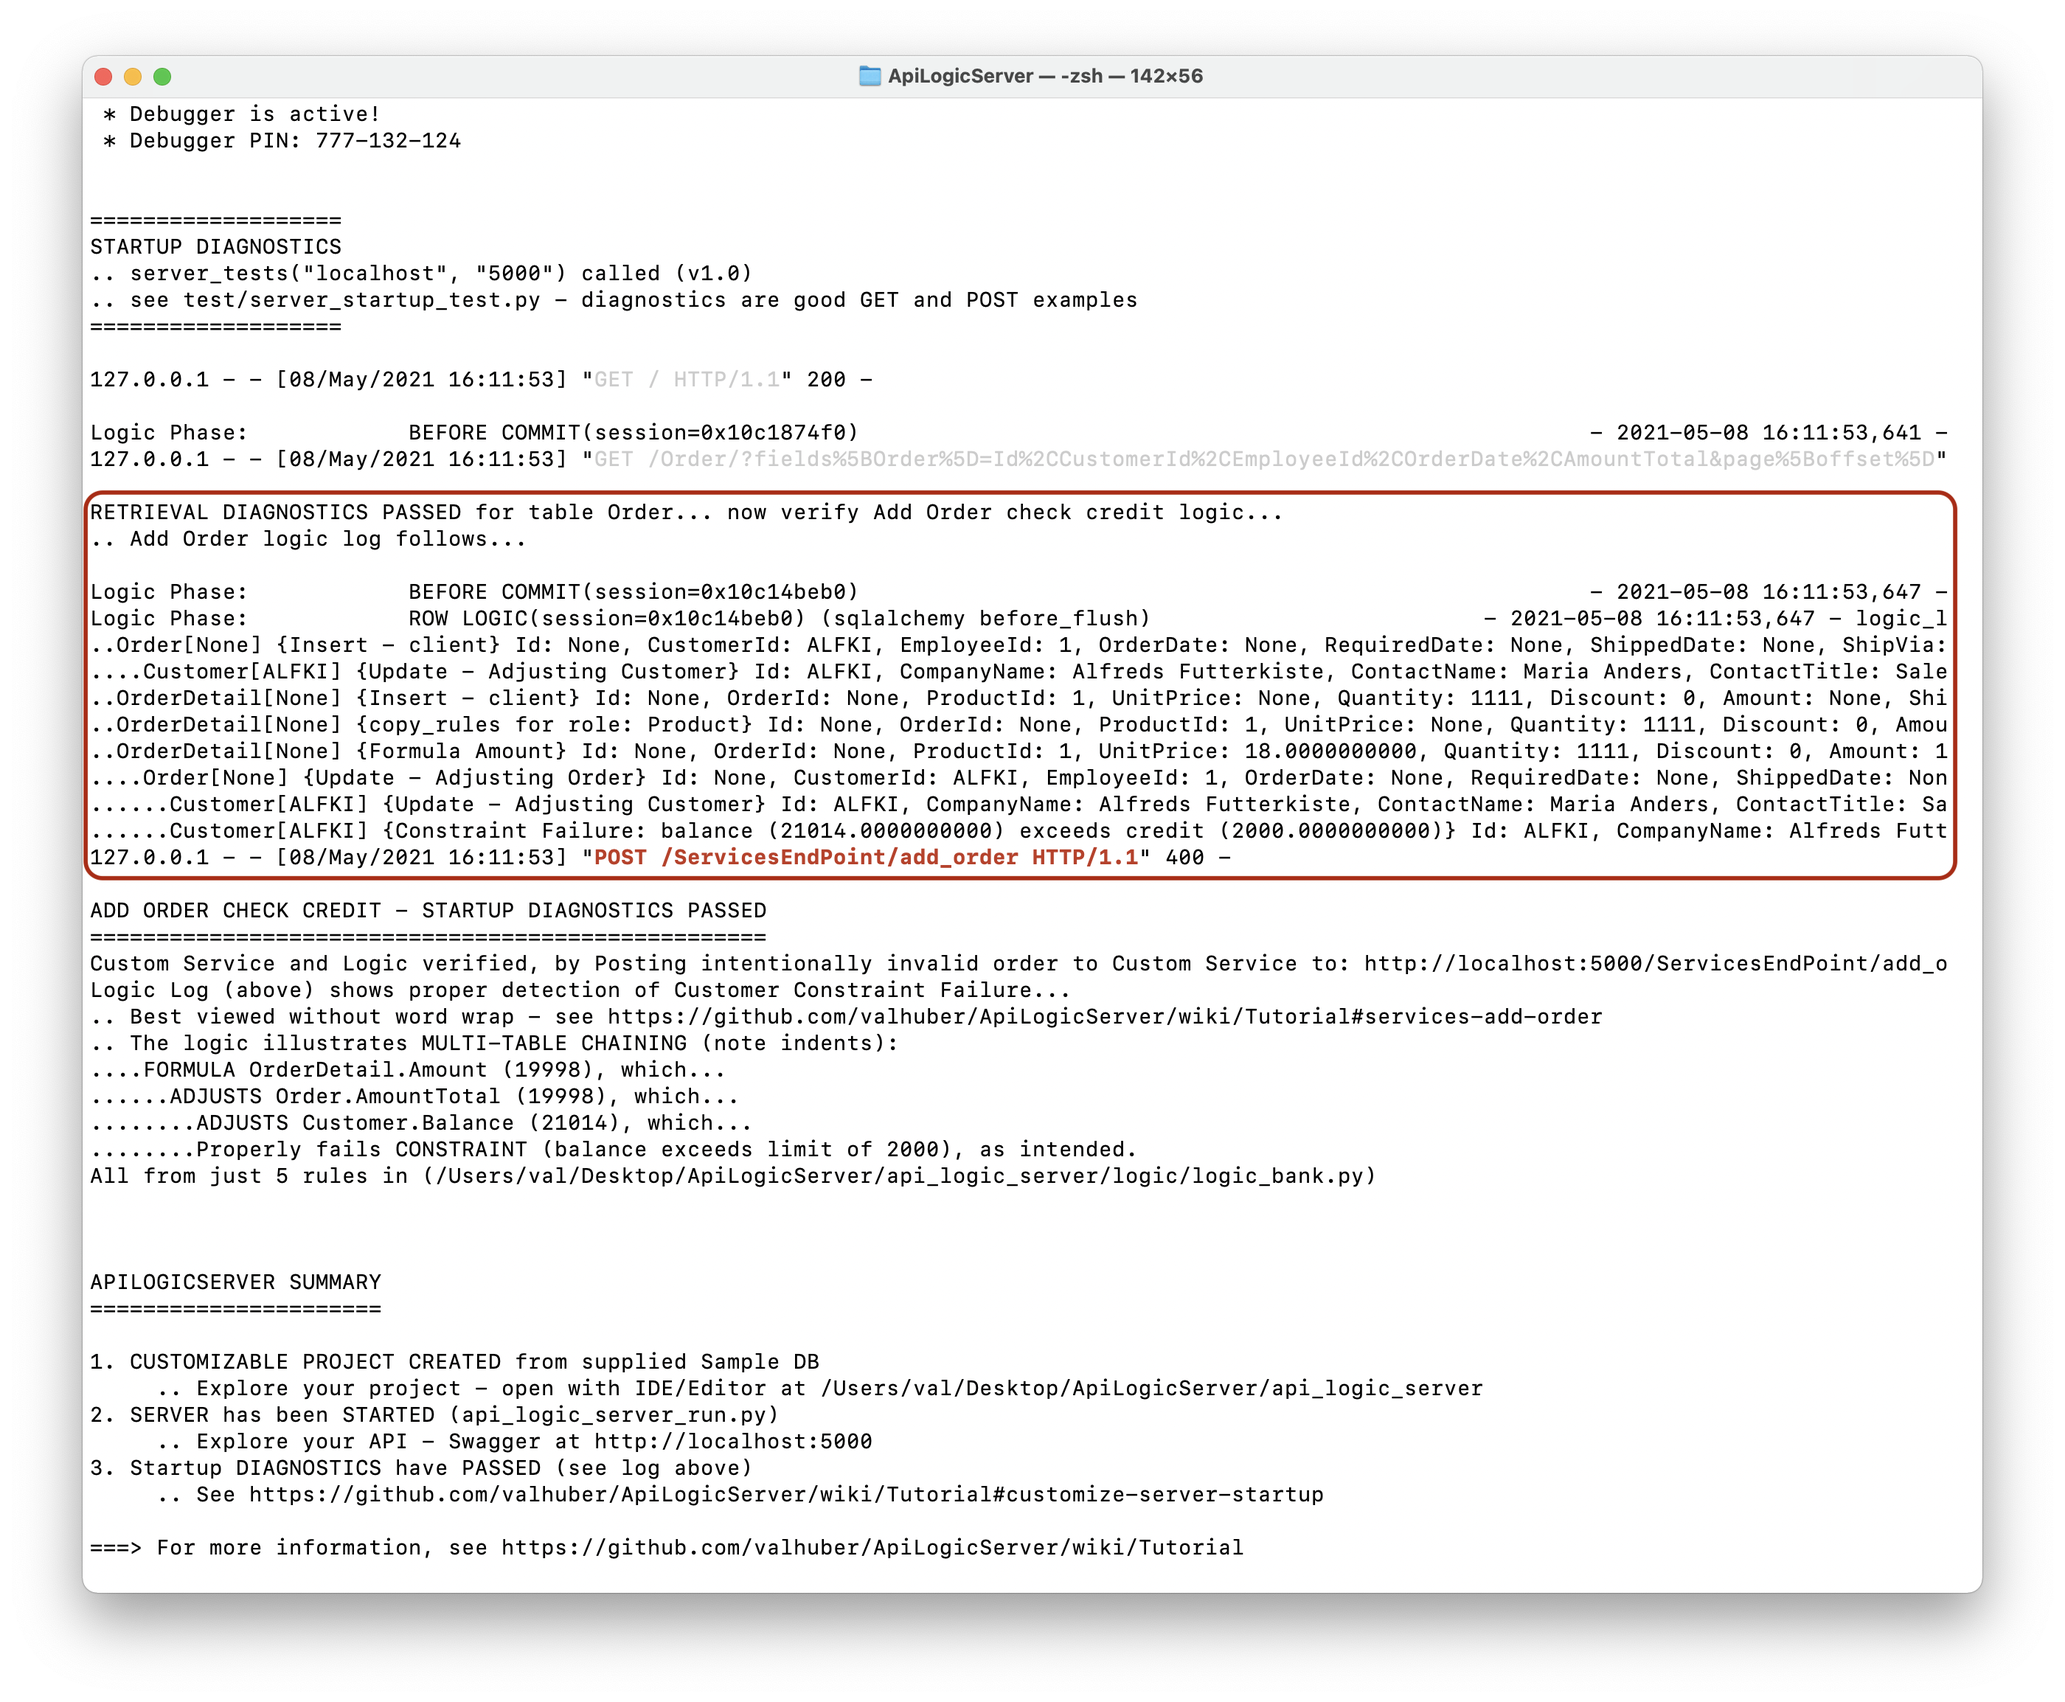
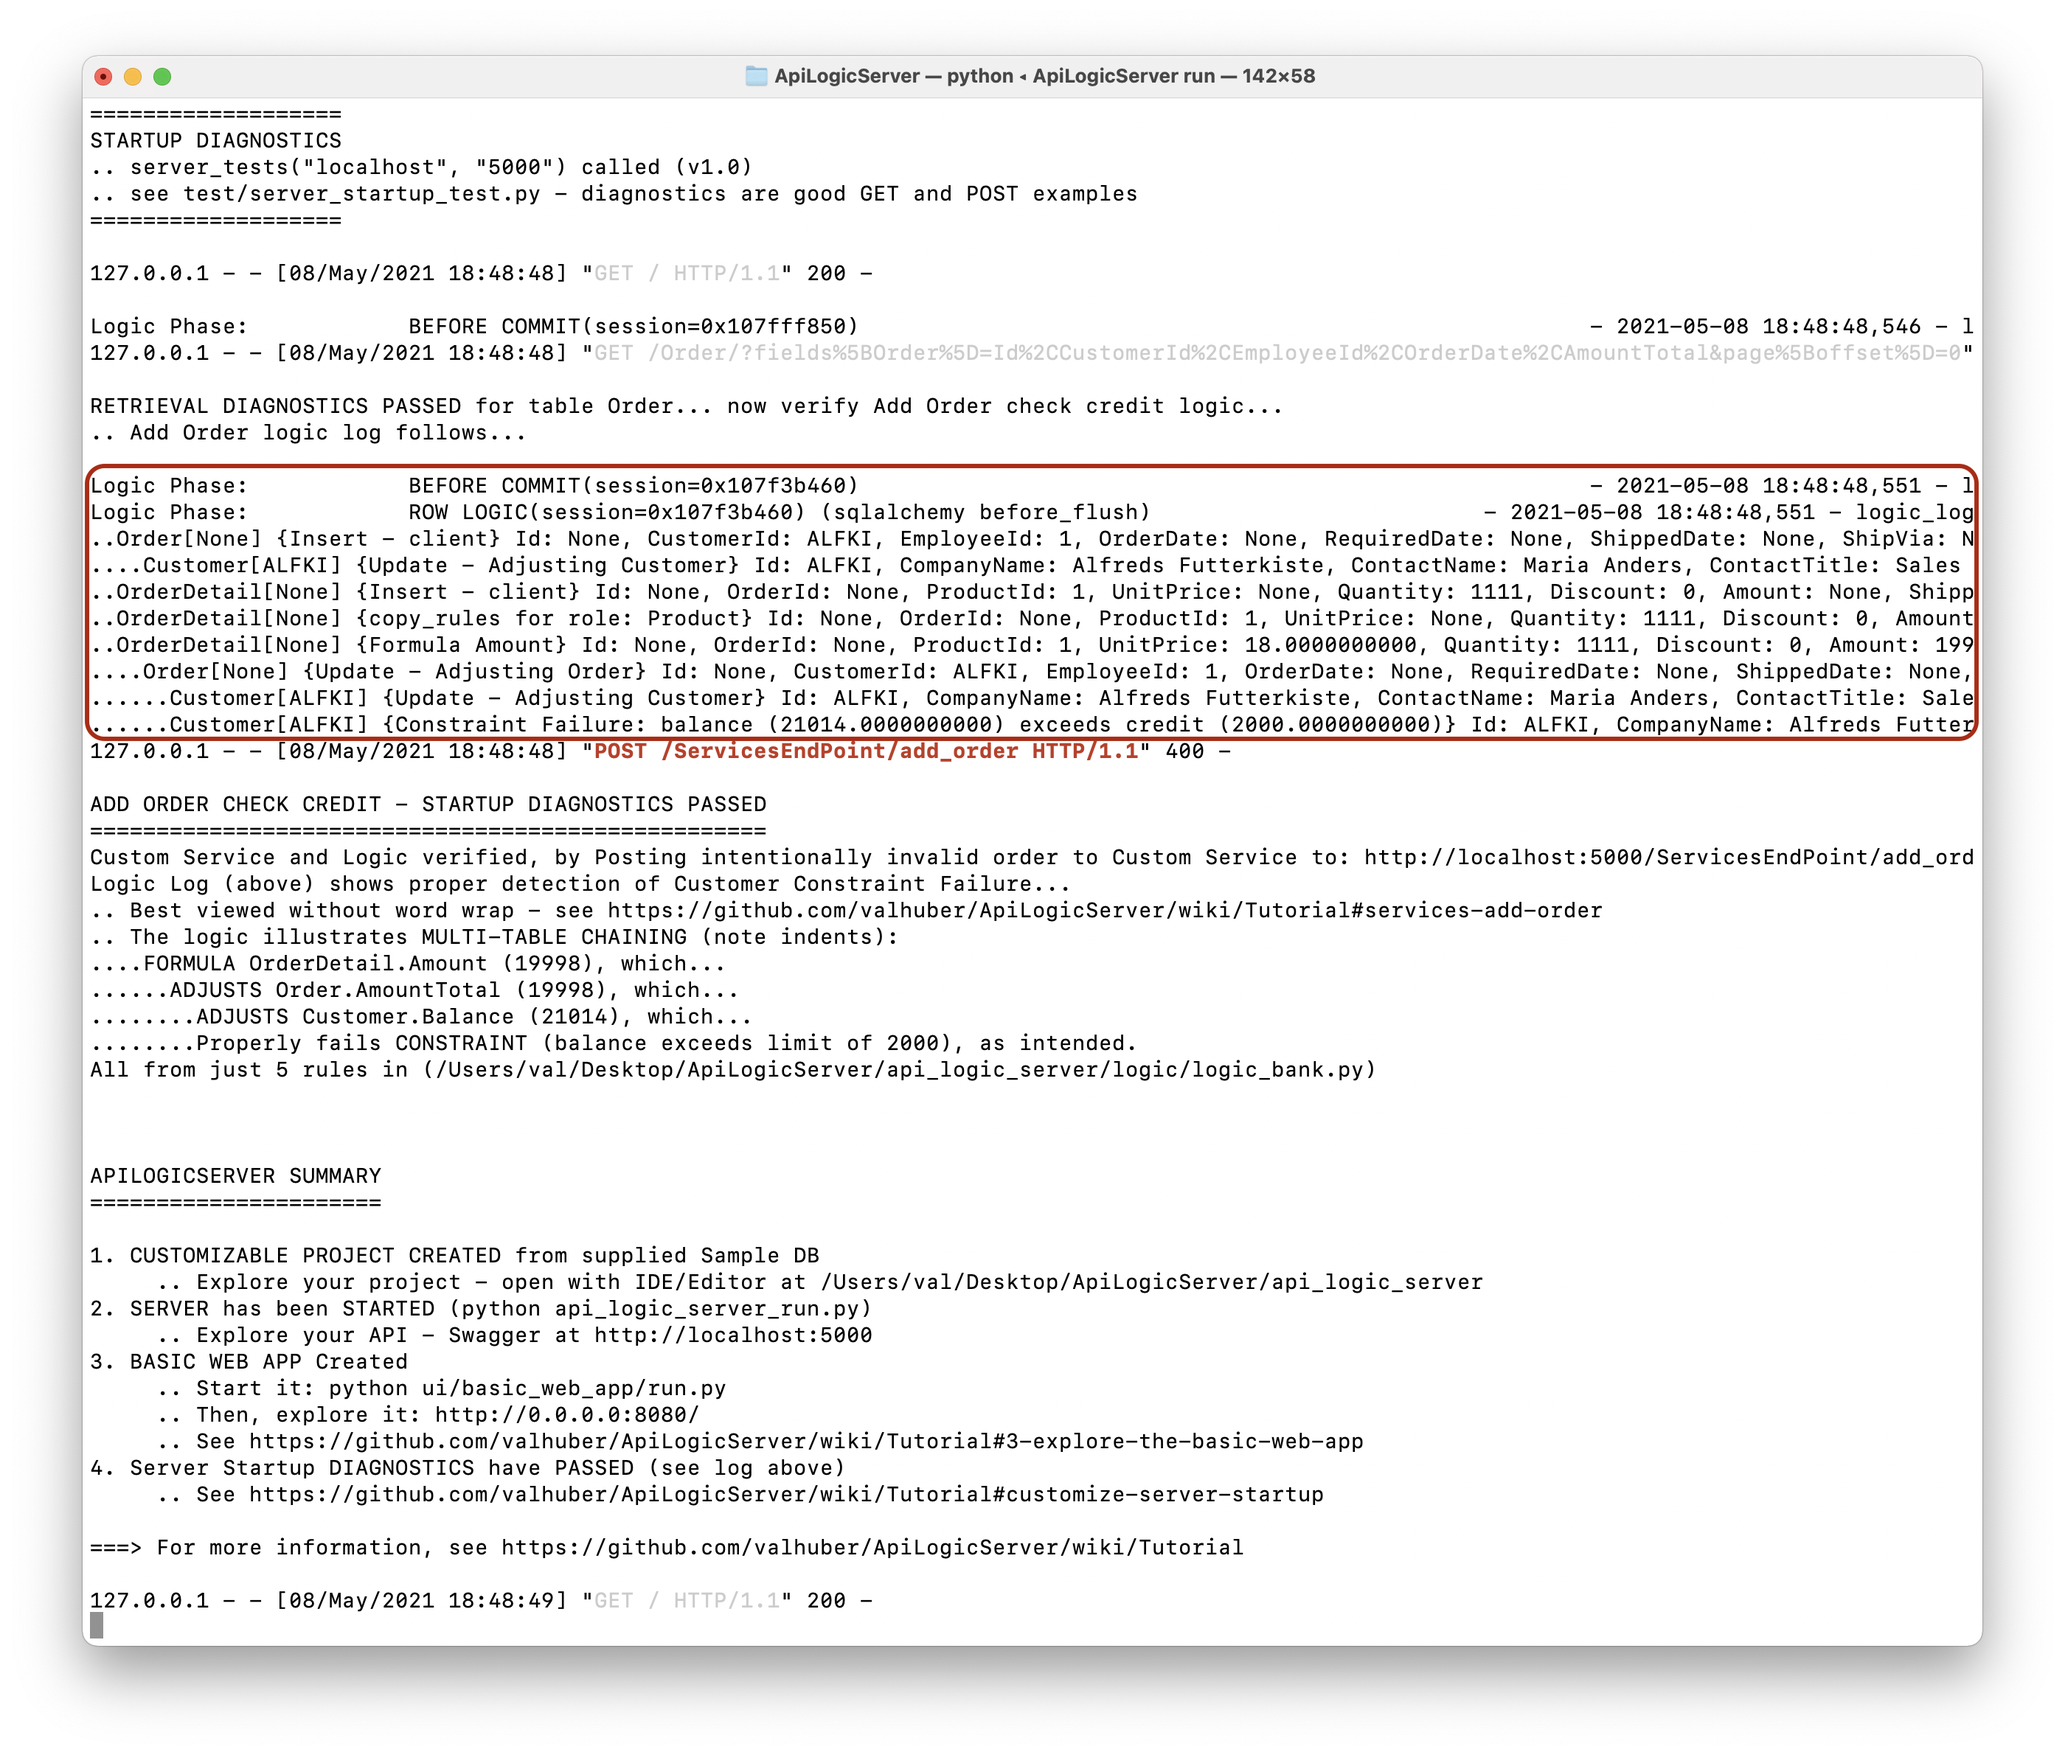
05/08/2021 - 02.02.08: Server Startup Option

diff --git a/api_logic_server_cli/nw_server_startup_test.py b/api_logic_server_cli/nw_server_startup_test.py
@@ -98,9 +98,13 @@ def server_tests(host, port):
     prt(f''
         f'1. CUSTOMIZABLE PROJECT CREATED from supplied Sample DB\n'
         f'     .. Explore your project - open with IDE/Editor at {get_project_dir()}\n'
-        f'2. SERVER has been STARTED (api_logic_server_run.py)\n'
+        f'2. SERVER has been STARTED (python api_logic_server_run.py)\n'
         f'     .. Explore your API - Swagger at http://{host}:{port}\n'
-        f'3. Startup DIAGNOSTICS have PASSED (see log above)\n'
+        f'3. BASIC WEB APP Created\n'
+        f'     .. Start it: python ui/basic_web_app/run.py\n'
+        f'     .. Then, explore it: http://0.0.0.0:8080/\n'
+        f'     .. See https://github.com/valhuber/ApiLogicServer/wiki/Tutorial#3-explore-the-basic-web-app\n'
+        f'4. Server Startup DIAGNOSTICS have PASSED (see log above)\n'
         f'     .. See https://github.com/valhuber/ApiLogicServer/wiki/Tutorial#customize-server-startup\n'
         f'\n'
         f'===> For more information, see https://github.com/valhuber/ApiLogicServer/wiki/Tutorial\n')

diff --git a/api_logic_server_cli/cli.py b/api_logic_server_cli/cli.py
@@ -34,7 +34,7 @@ import inspect
 import importlib
 import click
 
-__version__ = "02.02.07"
+__version__ = "02.02.08"
 default_db = "<default -- nw.sqlite>"
 
 #  MetaData = NewType('MetaData', object)
@@ -1276,7 +1276,7 @@ def version(ctx):
     click.echo(
         click.style(
             f'Recent Changes:\n'
-            "\t05/08/2021 - 02.02.07: Server Startup Option\n"
+            "\t05/08/2021 - 02.02.08: Server Startup Option\n"
             "\t05/03/2021 - 02.01.05: --extended_builder - bypass Scalar Value Functions\n"
             "\t04/30/2021 - 02.01.04: --extended_builder - multiple Table Value Functions example running\n"
             "\t04/27/2021 - 02.01.01: Improved Services, option --extended_builder (e.g., restify Table Value Functions)\n"

diff --git a/README.md b/README.md
@@ -272,6 +272,8 @@ These technologies are automatically created when you use ApiLogicServer:
 * [Instant Web Apps](https://dzone.com/articles/instant-db-web-apps) 
 
 ### Change Log
+05/08/2021 - 02.02.08: Server Startup Option
+
 05/03/2021 - 02.01.05: --extended_builder - bypass Scalar Value Functions
 
 04/30/2021 - 02.01.04: --extended_builder - multiple Table Value Functions example running
